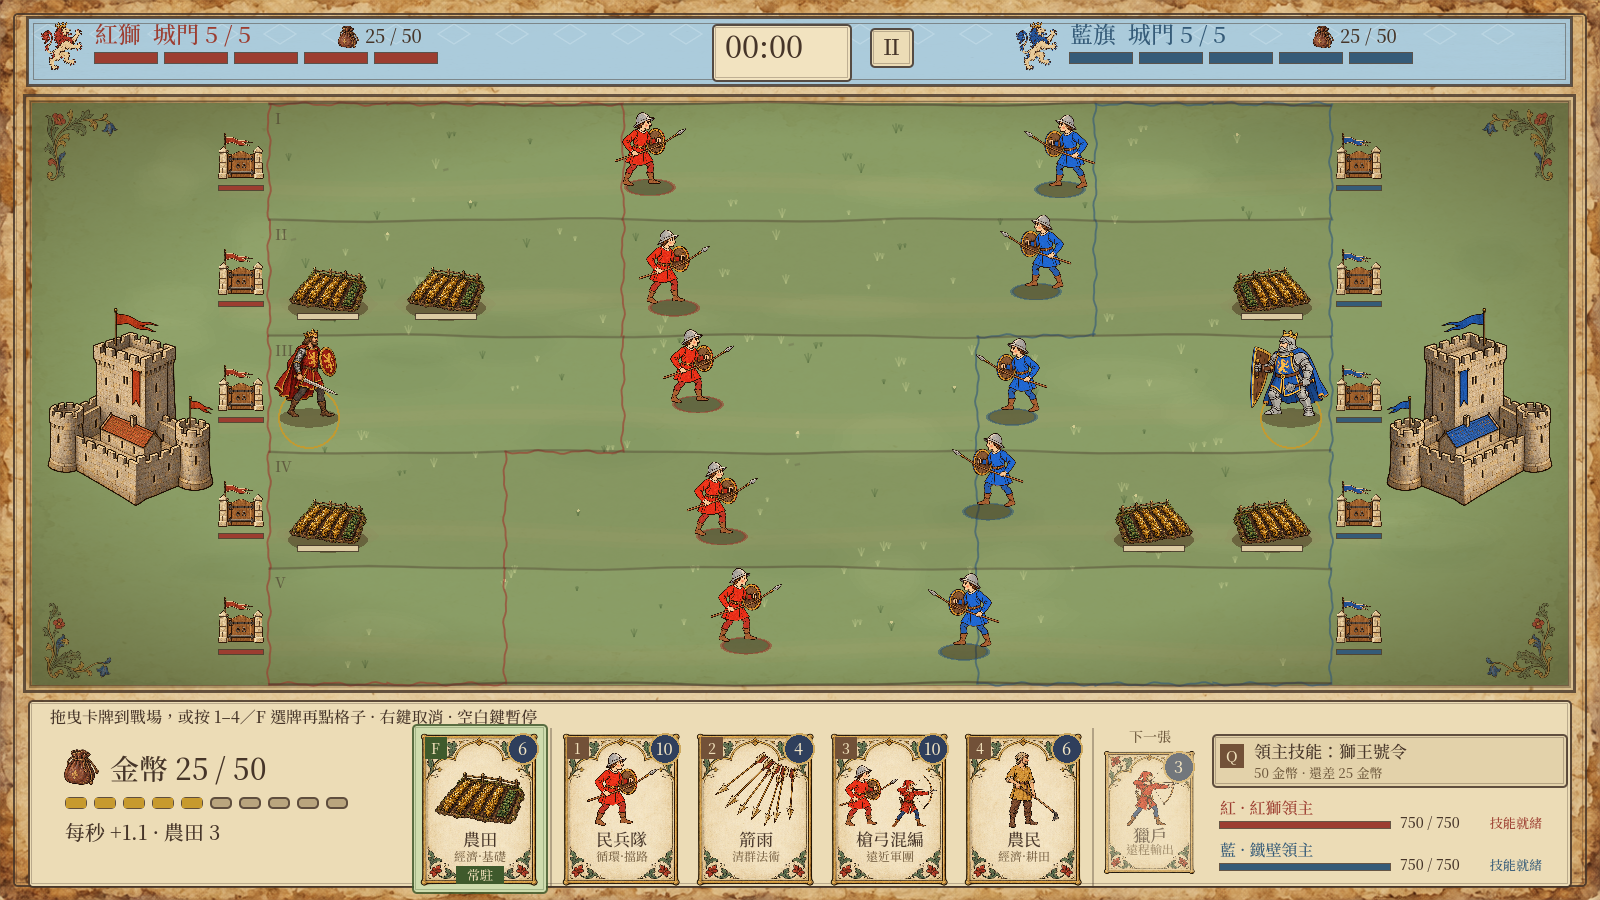
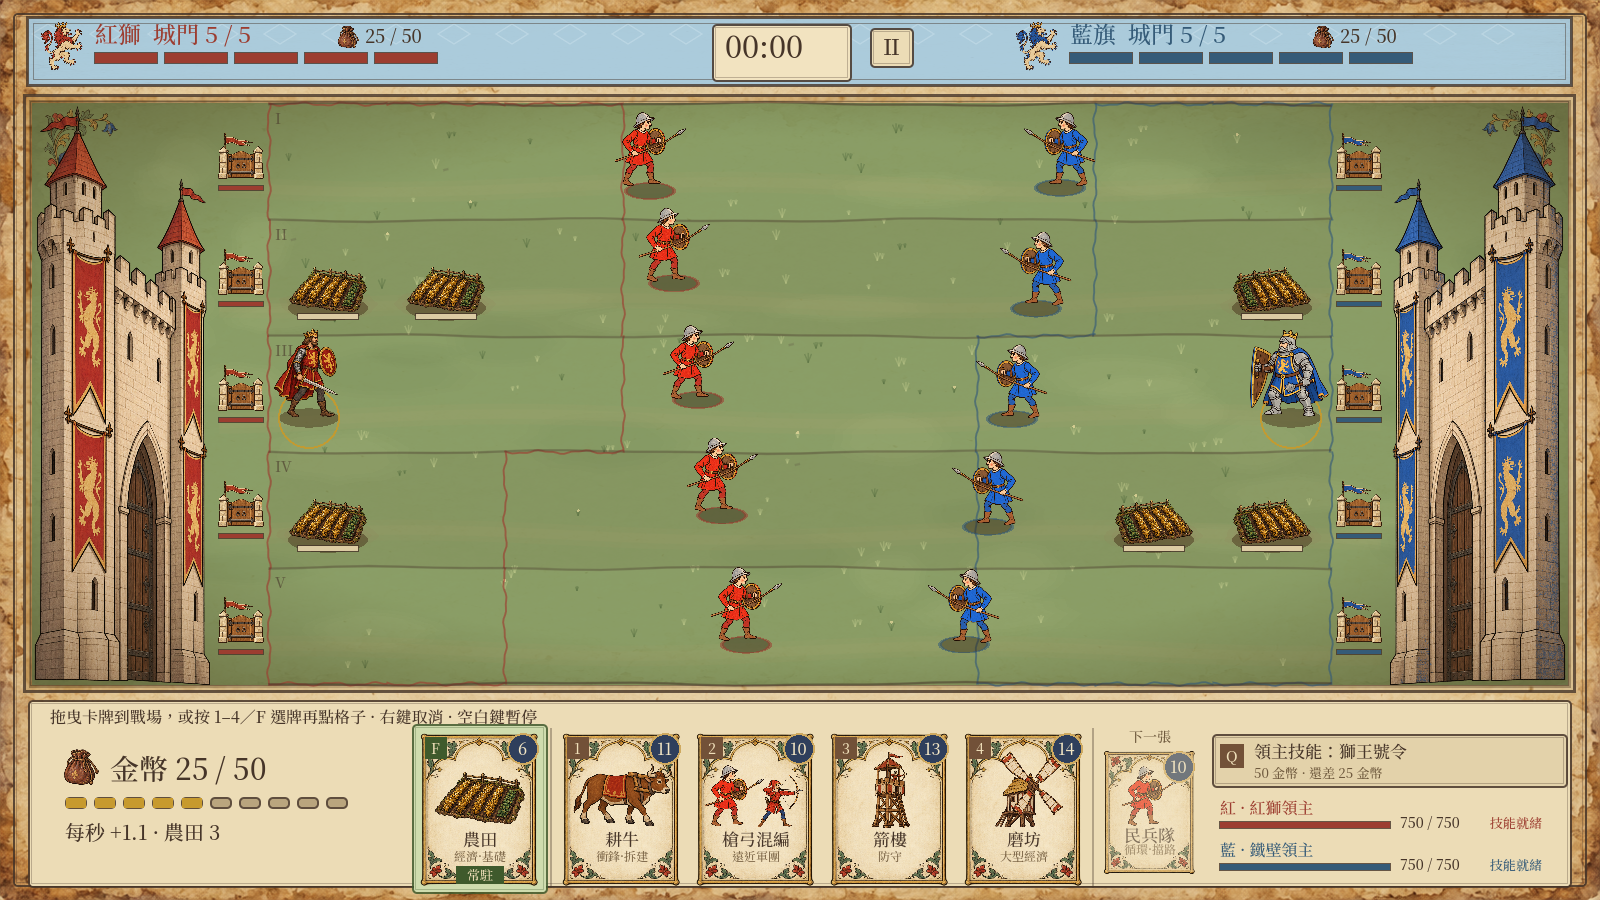
Add towering manuscript gatehouse walls along battlefield edges

diff --git a/docs/高城門美術.md b/docs/高城門美術.md
@@ -1,0 +1,9 @@
+# 高城門美術（2026-10-31）
+
+依製作人最新參考圖，戰場兩側改為高聳的連續城牆、塔樓、長旗與拱門立面。此要求取代先前戰場顯示矮堡壘的方向；標題畫面的完整堡壘保留。
+
+- 新素材：`assets/manuscript-v1/castle-wall.png`，prompt 同目錄存檔。
+- 兩側顯示範圍各 185×580，從 y=106 延伸至 y=686；戰場格子、城門判定與 HUD 不變。
+- 紅藍共用一張素材，藍方鏡像並只換紅色屋頂與旗幟；木門區域另有保護遮罩，保留木色。
+- 戰鬥 60 秒實景：`docs/tall-gate-preview.png`，已檢視高度、邊界與紅藍換色。
+- 工作目錄 headless smoke：744 項通過、回傳 0。另以已提交規則基線隔離驗證本次美術，避免混入同步開發中的卡牌規則。
